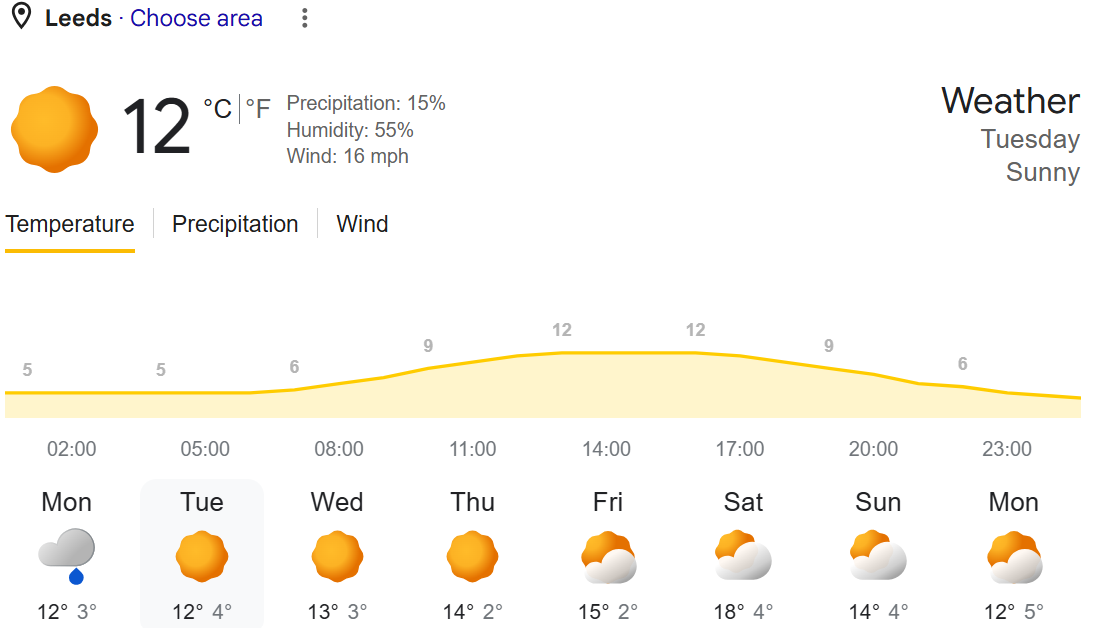
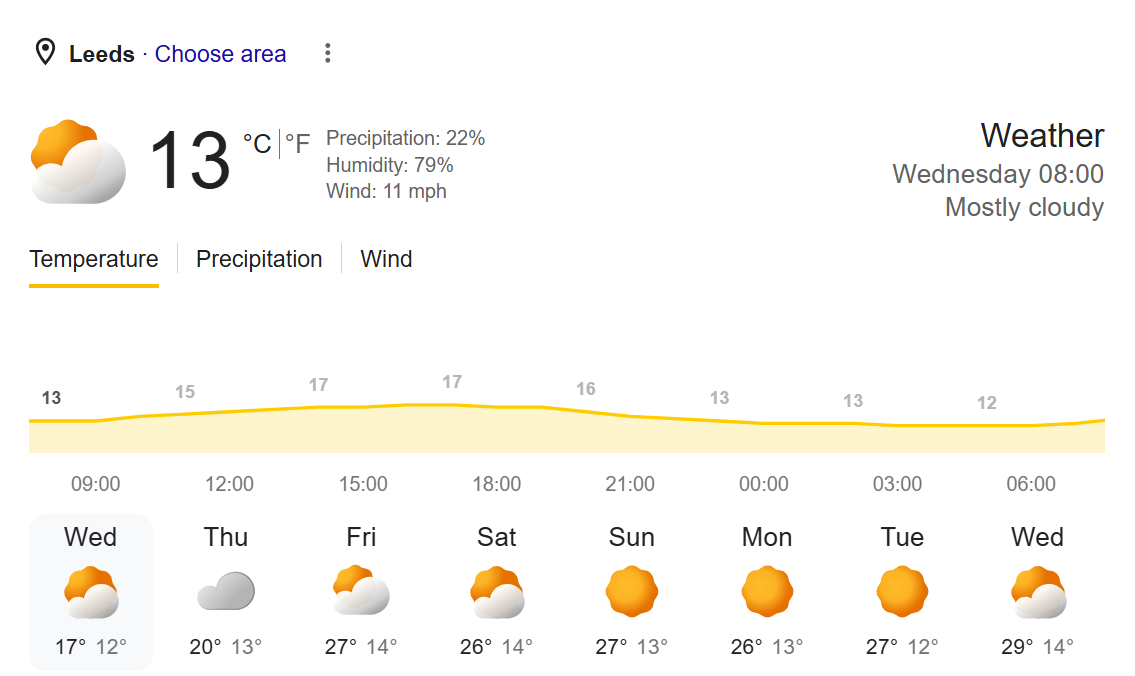
gw11 plus changes

diff --git a/draw_tab.py b/draw_tab.py
@@ -8,9 +8,14 @@ import variables as v
 
 TEAM_A_STARTER = []
 TEAM_B_STARTER = []
-POT_1 = []
-POT_2 = ["Callum Goodyear", "Toby Munson", "Oliver Deverall", "Steven Robinson","Daniel Hirst", "Jacob Stokes"]
-POT_3 = ["Michael Dixon", "James King","Jamie Dobbs", "Rory Scullin"]
+POT_1 = ["Daniel Hirst", "Josh Ringer"]
+POT_2 = ["Callum Goodyear", "Oliver Deverall"]
+POT_3 = ["Michael Dixon", "Jamie Dobbs"]
+POT_4 = ["Mark McGlinchey", "Kev laaaa"]
+POT_5 = ["Jacob Stokes", "Steven Robinson"]
+
+FIRST_HOST_IMAGE = "images/host1.jpg"
+SECOND_HOST_IMAGE = "https://encrypted-tbn0.gstatic.com/images?q=tbn:ANd9GcSynfA12iDA9sBWfhdOKiE3XTyVCOL9kfW9jwWXub5fvAqcwZ0YZl0MG2kfObdHmb1glLrYLIGYAibuE32UUhroR1HMdwM8fdfmbShZXg&s=10"
 
 
 def render_draw_tab():
@@ -40,38 +45,37 @@ def render_draw_tab():
             ("split", POT_1),
             ("split", POT_2),
             ("split", POT_3),
+            ("split", POT_4),
+            ("split", POT_5)
         )
+
         print("A:", team_a)
         print("B:", team_b)
 
         disp_f.say("Welcome to the **4MOST 5-a-Side Draw**", text_box)
 
+        disp_f.say("A quick caveat, I wrote this on Monday so if something goes wrong (shrug emoji)", text_box)
+        disp_f.say("The urls for some of the images driving me insane so it is what it issss", text_box)
+
         # Introduce hosts
         disp_f.say("Introducing our first host", text_box)
-        disp_f.say("All the way from Canada", text_box)
-        disp_f.say("You might be seeing more of them in Portugal", text_box)
-        gif_box.image("images/carly.png")
+        disp_f.say("We saw a lot of her last week", text_box)
+        gif_box.image(FIRST_HOST_IMAGE)
+        disp_f.pause(5)
         gif_box.empty()
-        disp_f.say("11 stage presence, lets see how you can perform on the biggest stage of all", text_box)
-        disp_f.say("The 4most 5 a side LIVE draw", text_box)
-        disp_f.say("Hey guyyssssss", text_box)
-        gif_box.empty()
+        disp_f.say("It's Dusty Springfield", text_box)
         disp_f.clear_text_box(text_box)
-        disp_f.say("Cheers Carly", text_box)
 
         disp_f.say("And alongside her, ", text_box)
-        disp_f.say("One of the worlds worst guys", text_box)
-        disp_f.say("Actually hate this guy", text_box)
-        gif_box.image("https://i.redd.it/kmb1j74ojhcb1.jpg")
-
-        disp_f.say("Do you have any quiz questions for us lads?", text_box)
-        disp_f.say("Rory and who other have the best 2 player combination with 4 wins from 4 and a GD of 14??", text_box)
-        disp_f.pause(10)
-        disp_f.say("Yep you guessed it, it's last weeks MOTM, ya boy Stokes", text_box)
+        disp_f.say("One of the worst groups going", text_box)
+        disp_f.say("How did I finish below these gimps in music league what the hell", text_box)
+        gif_box.image(SECOND_HOST_IMAGE)
+        disp_f.clear_text_box(text_box)
+        disp_f.say("It's Las Ketchup", text_box)
+        disp_f.say("the fuck", text_box)
+        disp_f.say("I know right", text_box)
         gif_box.empty()
-
-        disp_f.say("More stats like this corker on the site", text_box)
-
+        disp_f.clear_text_box(text_box)
 
         disp_f.say("Lovely day for it", text_box)
         disp_f.clear_text_box(text_box)
@@ -81,15 +85,8 @@ def render_draw_tab():
         disp_f.pause(5)
         gif_box.empty()
 
-        disp_f.say("Sunny init neymar", text_box)
-        disp_f.clear_text_box(text_box)
-
         disp_f.say("Right, lets get into the draw...", text_box)
-        disp_f.say("Everyone has played together now", text_box)
-        disp_f.say("So it's a case of breaking up the winning pairs", text_box)
-        disp_f.say("And getting the non winning pairs a win, if possible..", text_box)
-        disp_f.say("Also rotating the 5s, no 5 people will play as a team for as long as I can allow", text_box)
-
+        
         disp_f.clear_text_box(text_box)
 
         remaining_players = team_a + team_b

diff --git a/variables.py b/variables.py
@@ -1,20 +1,25 @@
 # --- Player GIFs ---
 player_images = {
-    "Jacob Stokes": "https://butchers-sundries.com/cdn/shop/products/OriginalTomatoKetchup_StockesSauces_ButchersSundries_Image1.jpg?v=1601653143&width=1000",
-    "Rory Scullin": "https://innerbody.imgix.net/Skull.png",
-    "James King": "images/king.png",
-    "Steven Robinson": "https://c8.alamy.com/comp/2A00MJT/promotion-label-promotion-red-band-sign-promotion-2A00MJT.jpg",
-    "Toby Munson": "https://static.wikia.nocookie.net/ttte/images/0/0c/MainTobyModel.png/revision/latest?cb=20250531164542",
-    "Callum Goodyear": "https://upload.wikimedia.org/wikipedia/commons/thumb/0/09/Callum_Turner-69856_%28cropped%29.jpg/960px-Callum_Turner-69856_%28cropped%29.jpg",
-    "Jamie Dobbs": "https://encrypted-tbn0.gstatic.com/images?q=tbn:ANd9GcQiJiTXt371SjR3TzfBSavQFO8uIrvmvN74Mg&s",
-    "Michael Dixon": "https://preview.redd.it/no-hate-towards-mike-but-i-think-season-1-still-stands-as-v0-p7yus6zlb3i91.jpg?width=640&crop=smart&auto=webp&s=d2aeded52691af8650990b051c30e0090cebe65a",
-    "Daniel Hirst": "https://ichef.bbci.co.uk/images/ic/1200x675/p07h17xl.jpg",
-    "Oliver Deverall": "https://www.shutterstock.com/image-photo/delicious-green-olives-leaves-isolated-260nw-2492503625.jpg",
+    "Josh Ringer": "https://hips.hearstapps.com/hmg-prod/images/josh1-699819456da34.jpg?crop=1xw:1xh;center,top&resize=640:*",
+    "Oliver Deverall": "https://encrypted-tbn0.gstatic.com/images?q=tbn:ANd9GcR-JVoIV9n0noftXRrYJAvSxfDT_vlWzSfPNg&s",
+       
+    "Jacob Stokes": "https://cdn.staticneo.com/w/twilight/JacobBlack.jpg",
+    "Steven Robinson": "https://upload.wikimedia.org/wikipedia/commons/5/5a/Steven_Seagal_at_Russia_Expo.jpg",
+    "Callum Goodyear": "https://ichef.bbci.co.uk/ace/standard/1680/cpsprodpb/2ae4/live/eca39d10-85d1-11f0-961b-671d5baac859.jpg",
+    "Jamie Dobbs": "https://e1.365dm.com/12/02/800x600/Jamie-O-Hara-Wolves_2720005.jpg?20120217102810",
+    "Michael Dixon": "https://upload.wikimedia.org/wikipedia/en/thumb/6/6a/Mike_Wazowski.png/250px-Mike_Wazowski.png",   
     
-    "Josh": "https://www.theodysseyonline.com/media-library/image.gif?id=56296612&width=210",
-    "Mark McGlinchey": "https://pbs.twimg.com/media/GOiFopxXYAA0vSy.jpg",
+    "Mark McGlinchey": "https://encrypted-tbn0.gstatic.com/images?q=tbn:ANd9GcTAw4NpdrcFFUcMPY7U6CQOynickrOo0wWJflxWCy68AP_b__nm03ZDEX2sIldG6lqueUJD&s",
+    "Kev laaaa": "https://i.guim.co.uk/img/static/sys-images/Sport/Pix/pictures/2009/1/15/1232022588405/Kevin-Kilbane-001.jpg?width=465&dpr=1&s=none&crop=none",
+
+    "Daniel Hirst": "https://ichef.bbci.co.uk/images/ic/1200x675/p07h17xl.jpg",
+
     "John Bridgeman": "https://i.ytimg.com/vi/Uj5iPDcRiUg/maxresdefault.jpg",
+    "James King": "images/king.png",
+    "Toby Munson": "https://static.wikia.nocookie.net/ttte/images/0/0c/MainTobyModel.png/revision/latest?cb=20250531164542",
+    "Rory Scullin": "https://innerbody.imgix.net/Skull.png",
 }
+
 
 player_stats = {
     "Jacob Stokes": "Match ball hoarder",

diff --git a/functions.py b/functions.py
@@ -13,10 +13,12 @@ def generate_teams(base_team_A, base_team_B, previous_teams, *pots):
     if not pots:
         raise ValueError("At least one pot must be provided")
 
-    if len(pots) > 3:
-        raise ValueError("A maximum of 3 pots is supported")
+    if len(pots) > 5:
+        raise ValueError("A maximum of 5 pots is supported")
 
-    while True:
+    max_attempts = 1000
+
+    for _ in range(max_attempts):
         team_A = base_team_A.copy()
         team_B = base_team_B.copy()
 
@@ -52,6 +54,8 @@ def generate_teams(base_team_A, base_team_B, previous_teams, *pots):
         if not contained_A and not contained_B:
             return team_A, team_B
 
+    raise ValueError("Unable to generate a new team combination from the available pots")
+
 
 def _normalise_pot(pot):
     if isinstance(pot, tuple):
@@ -69,8 +73,8 @@ def is_team_previously_contained(new_team, previous_teams):
     for team_name, old_team in previous_teams.items():
         old_set = set(player for player in old_team if player.strip())
 
-        # Check if entire new team is inside old team
-        if new_set.issubset(old_set):
+        # Only reject exact repeats of a previously drawn team.
+        if len(new_set) == len(old_set) and new_set == old_set:
             return True, team_name
 
     return False, None

diff --git a/roster.py b/roster.py
@@ -1,15 +1,18 @@
 CANONICAL_PLAYERS = [
-    "Rory Scullin",
+    # "Rory Scullin",
+    # "Toby Munson",
+    # "James King",
+
     "Steven Robinson",
     "Callum Goodyear",
-    "Toby Munson",
     "Michael Dixon",
     "Oliver Deverall",
     "Daniel Hirst",
     "Jacob Stokes",
     "Jamie Dobbs",
-    "James King",
     "Mark McGlinchey",
+    "Kevin",
+    "Josh"
 ]
 
 PLAYER_ALIASES = {

diff --git a/post_match_tab.py b/post_match_tab.py
@@ -5,7 +5,7 @@ from data_paths import POST_MATCH_FILE, csv_repo_path
 from github_csv import load_csv, save_csv
 from roster import CANONICAL_PLAYERS, normalize_player_name
 
-GAMEWEEK = "GW10"
+GAMEWEEK = "GW11"
 POST_MATCH_PLAYERS = CANONICAL_PLAYERS
 RATING_OPTIONS = [1, 2, 3, 4, 5, 6, 7]
 